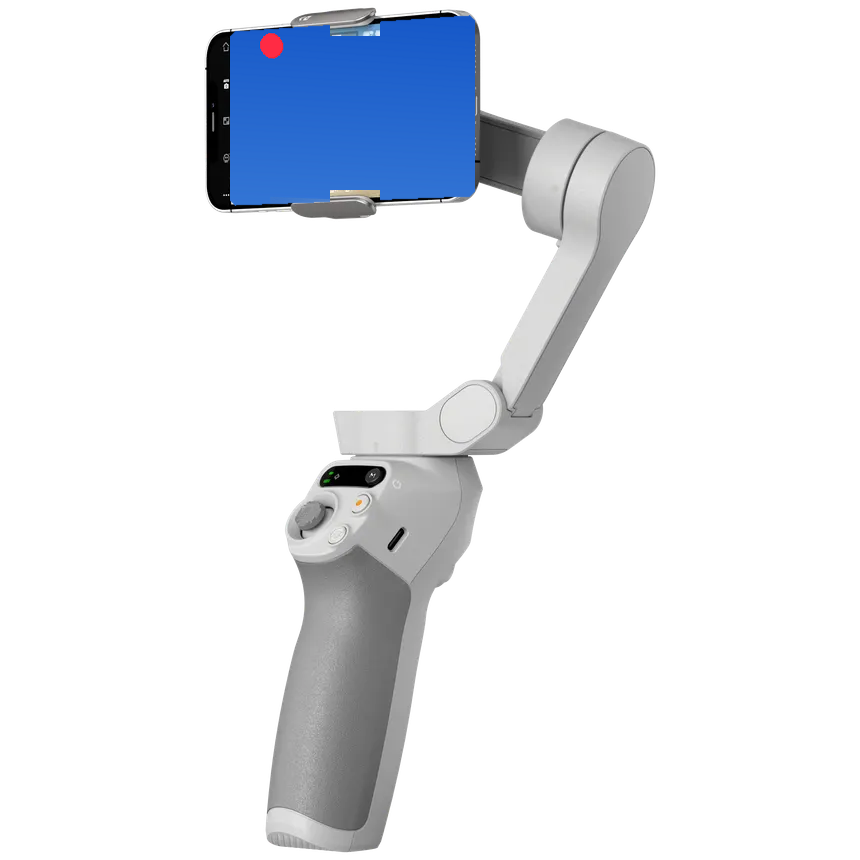
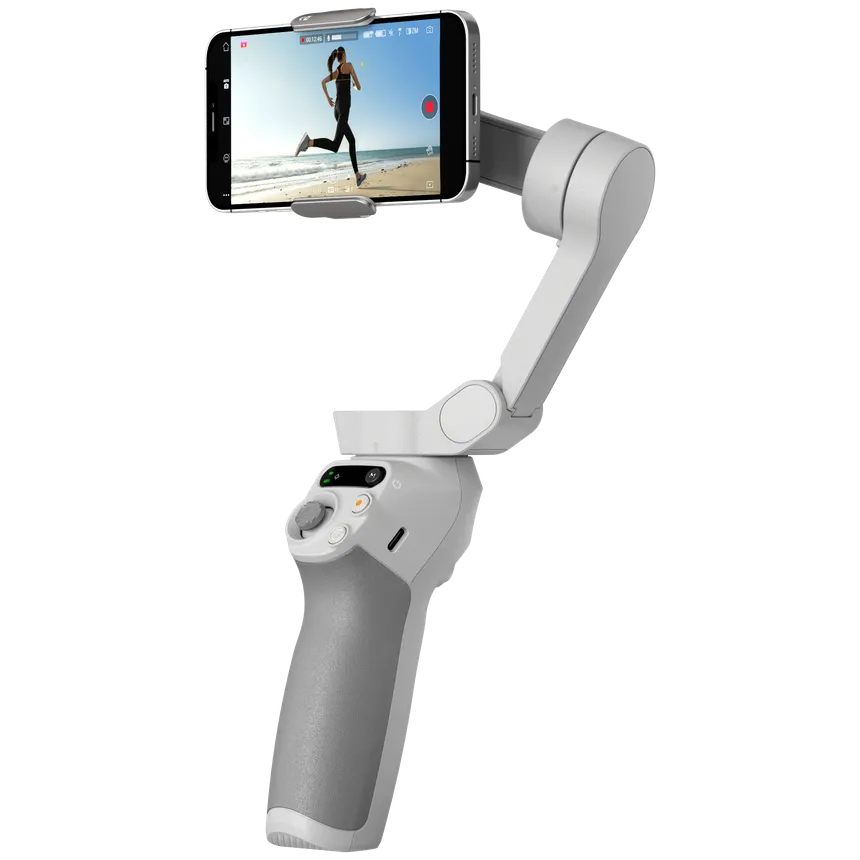
feat: restore original uploaded DJI Osmo Mobile photo on gimbal

Changed region(s): [[0.2419, 0.0, 0.5744, 0.2419]]

diff --git a/app.js b/app.js
@@ -1818,13 +1818,6 @@ function InteractiveGimbalHero({ hoveredCard, gimbalImage }) {
   const containerRef = useRef(null);
   const [tiltStyle, setTiltStyle] = useState({});
   const [isMouseOver, setIsMouseOver] = useState(false);
-  const [selectedScene, setSelectedScene] = useState("alpine");
-
-  const sceneImages = {
-    alpine: "assets/images/gimbal_scene_alpine.png",
-    sunset: "assets/images/gimbal_scene_sunset.png",
-    aurora: "assets/images/gimbal_scene_aurora.png"
-  };
 
   const handleMouseMove = (e) => {
     if (!containerRef.current) return;
@@ -1880,8 +1873,6 @@ function InteractiveGimbalHero({ hoveredCard, gimbalImage }) {
     };
   };
 
-  const activeSrc = sceneImages[selectedScene] || gimbalImage || "assets/images/dji_gimbal.png";
-
   return (
     <div
       ref={containerRef}
@@ -1898,52 +1889,19 @@ function InteractiveGimbalHero({ hoveredCard, gimbalImage }) {
         className={`gimbal-floating-frame ${!hoveredCard && !isMouseOver ? "gimbal-auto-float" : ""}`}
       >
         <img
-          src={activeSrc}
-          alt="DJI Osmo Mobile 7 3-Axis Stabilizer with Scenery Viewfinder"
+          src={gimbalImage || "assets/images/dji_gimbal.png"}
+          alt="DJI Osmo Mobile 7 3-Axis Stabilizer"
           className="gimbal-interactive-img"
           draggable="false"
         />
       </div>
 
-      {/* Telemetry Status Pill & Scenery Controls */}
-      <div className="flex flex-col sm:flex-row items-center gap-2.5 mt-5 z-10">
-        <div className="gimbal-telemetry-badge !mt-0">
-          <span className="w-2 h-2 rounded-full bg-emerald-500 animate-pulse" />
-          <span className="font-mono font-bold tracking-wider">
-            DJI OSMO MOBILE • 3-AXIS ACTIVE STABILIZATION • ACTIVE TRACK 6.0
-          </span>
-        </div>
-
-        {/* Viewfinder Scenery Switcher */}
-        <div className="flex items-center space-x-1.5 p-1 rounded-full bg-slate-100/90 border border-slate-200 backdrop-blur-md">
-          <button
-            onClick={() => { sfx.playClick(); setSelectedScene("alpine"); }}
-            title="Alpine Glacial Mountain"
-            className={`px-2.5 py-1 rounded-full text-[11px] font-mono font-bold transition-all ${
-              selectedScene === "alpine" ? "bg-black text-white shadow-xs" : "text-slate-600 hover:text-black"
-            }`}
-          >
-            🏔 Alpine
-          </button>
-          <button
-            onClick={() => { sfx.playClick(); setSelectedScene("sunset"); }}
-            title="Sunset Coastal Horizon"
-            className={`px-2.5 py-1 rounded-full text-[11px] font-mono font-bold transition-all ${
-              selectedScene === "sunset" ? "bg-black text-white shadow-xs" : "text-slate-600 hover:text-black"
-            }`}
-          >
-            🌅 Sunset
-          </button>
-          <button
-            onClick={() => { sfx.playClick(); setSelectedScene("aurora"); }}
-            title="Cosmic Aurora Night"
-            className={`px-2.5 py-1 rounded-full text-[11px] font-mono font-bold transition-all ${
-              selectedScene === "aurora" ? "bg-black text-white shadow-xs" : "text-slate-600 hover:text-black"
-            }`}
-          >
-            🌌 Aurora
-          </button>
-        </div>
+      {/* Telemetry Status Pill */}
+      <div className="gimbal-telemetry-badge">
+        <span className="w-2 h-2 rounded-full bg-emerald-500 animate-pulse" />
+        <span className="font-mono font-bold tracking-wider">
+          DJI OSMO MOBILE • 3-AXIS ACTIVE STABILIZATION • ACTIVE TRACK 6.0
+        </span>
       </div>
     </div>
   );
